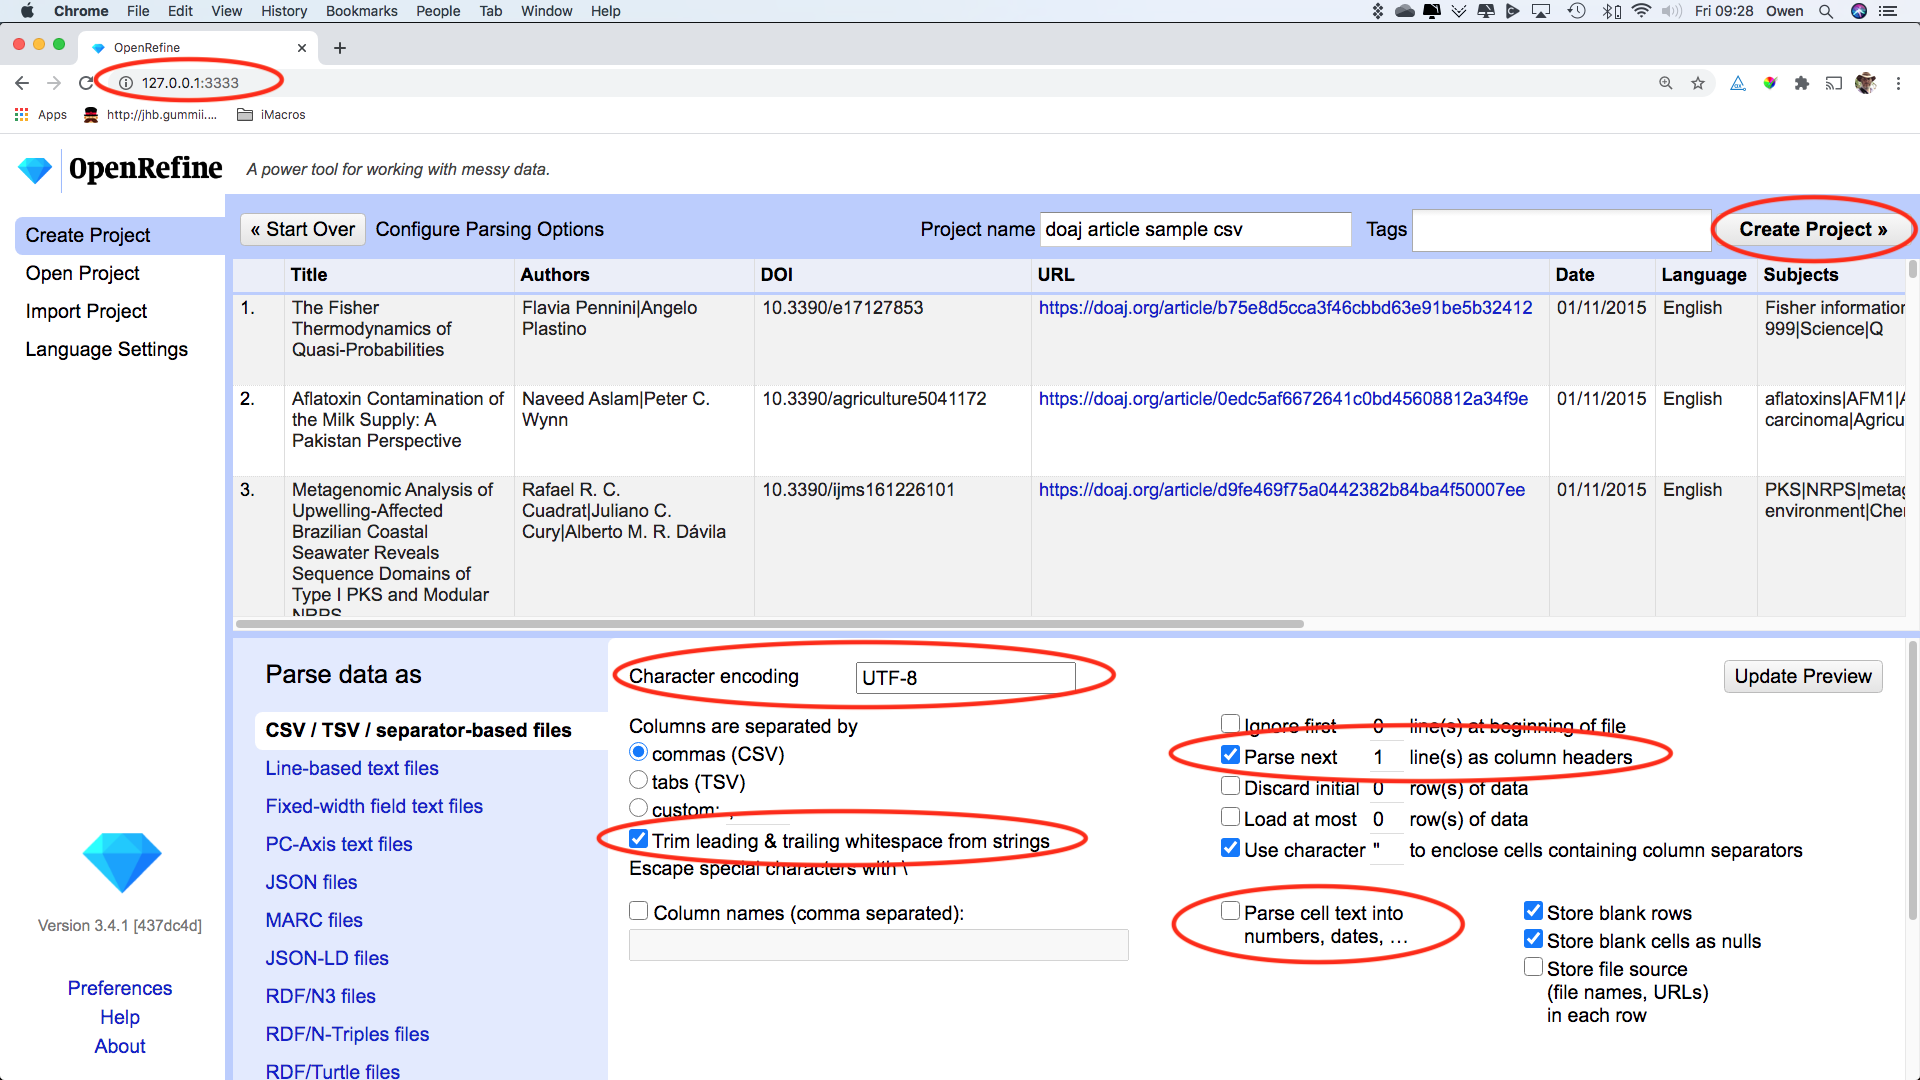
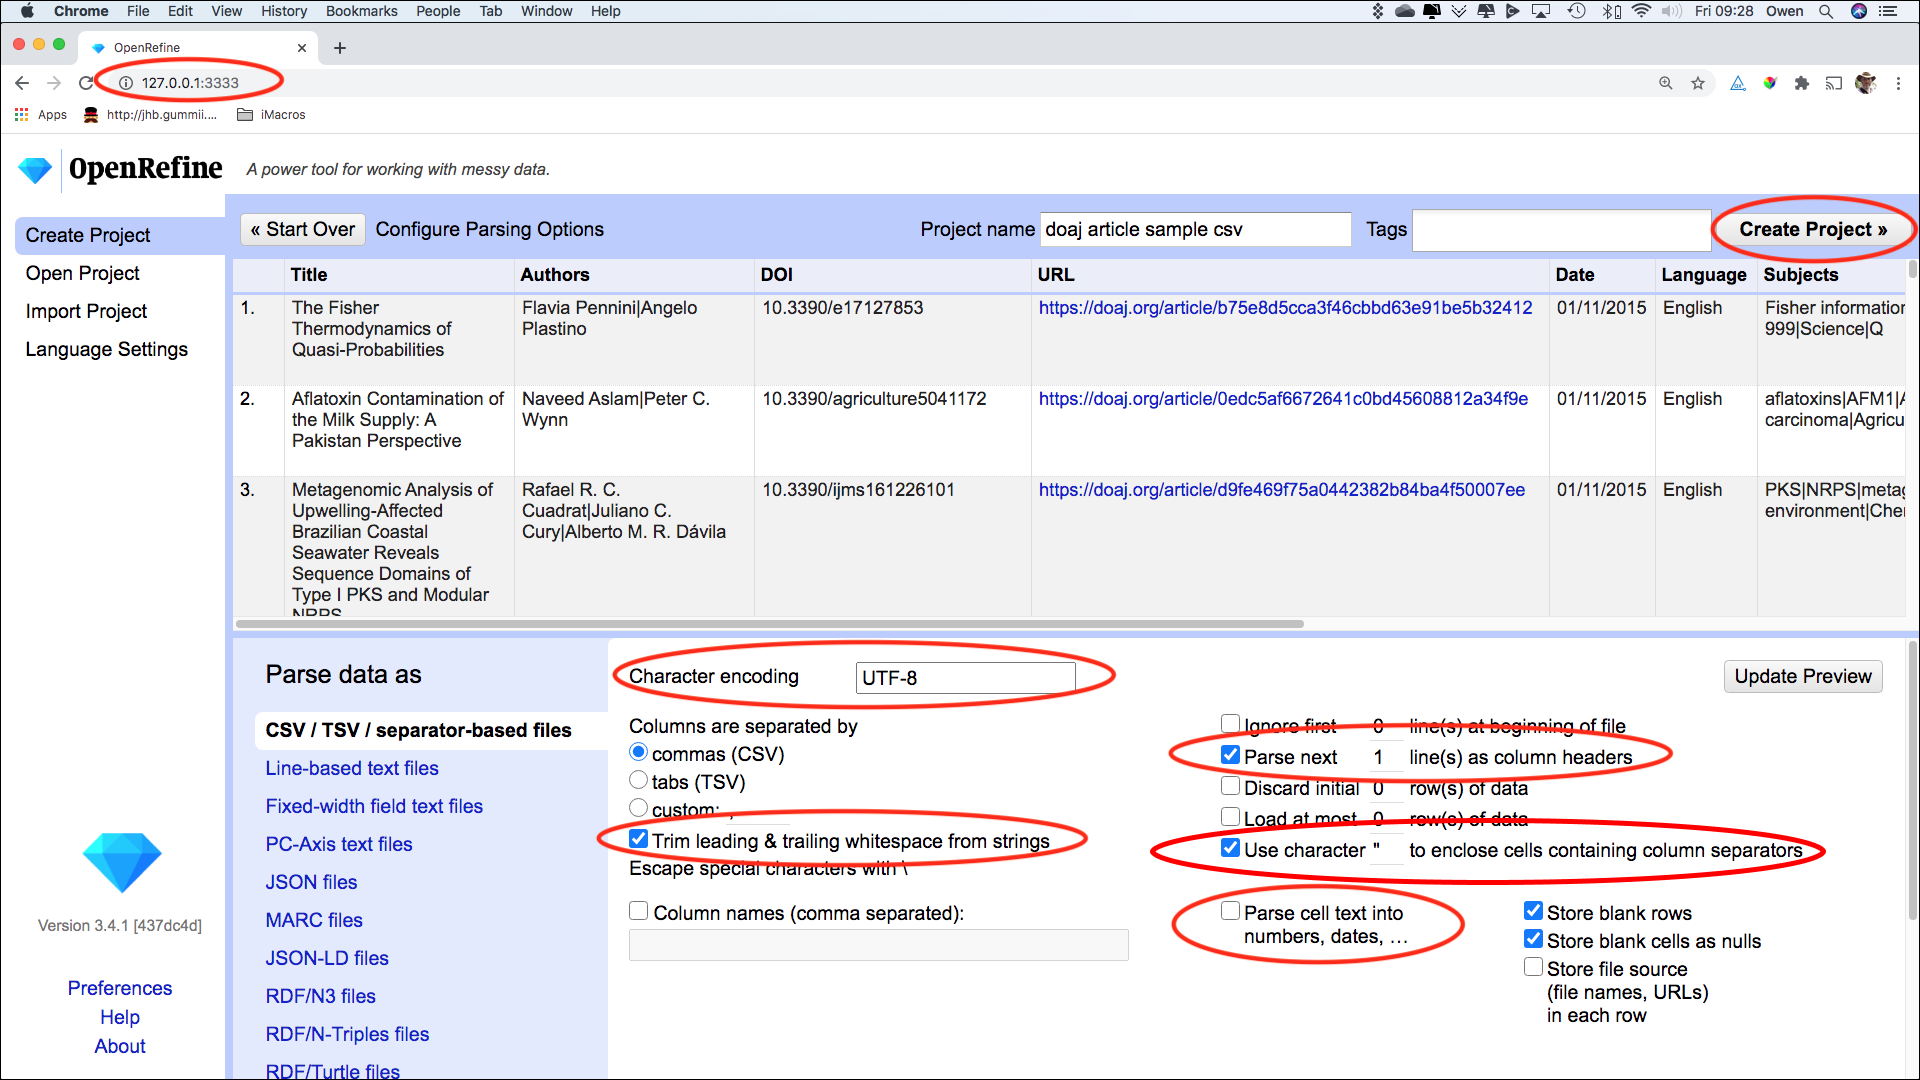
episode 2 use character fix for issue 211

Changed region(s): [[0.5938, 0.7639, 0.9688, 0.825], [0.6875, 0.7333, 0.8438, 0.7639]]

diff --git a/_episodes/02-importing-data.md b/_episodes/02-importing-data.md
@@ -34,7 +34,7 @@ keypoints:
 >3. Click `Next >>` - the next screen (see below) gives you options to ensure the data is imported into OpenRefine correctly. The options vary depending on the type of data you are importing.
 >4. Click in the `Character encoding` box and set it to `UTF-8`. This ensures that OpenRefine correctly interprets the imported data as UTF-8 encoded. If you don't select this you may find that some special characters (e.g. smart quotation marks) are not displayed correctly.
 >5. Ensure the first row is used to create the column headings by checking the box `Parse next 1 line(s) as column headers`
->6. OpenRefine will automatically select "Use character" to enclose cells containing column separators as this will place data in one cell where the values are enclosed in quotes from the source dataset
+>6. OpenRefine will automatically select “Use character” to enclose cells containing column separators (such as a comma) as part of their data. This will make sure that OpenRefine doesn't misinterpret any commas (or other characters) within the column data as a delimiter. Keep this option selected.
 >7. From OpenRefine 3.4 onwards there is an option to Trim leading & trailing whitespace from strings when importing separator-based files. Keeping this checked will ensure that values like `English` and `English `, which differ by a single trailing space, are not treated as different values after the import
 >8. Make sure the `Parse cell text into numbers, dates, ...` box is not checked, so OpenRefine doesn't try to automatically detect numbers as it may cause errors such as confusion between date formats (e.g. DD/MM/YYYY vs MM/DD/YYYY)
 >9. The Project Name box in the upper right corner will default to the title of your imported file. Click in the `Project Name` box to give your project a different name, if desired.
